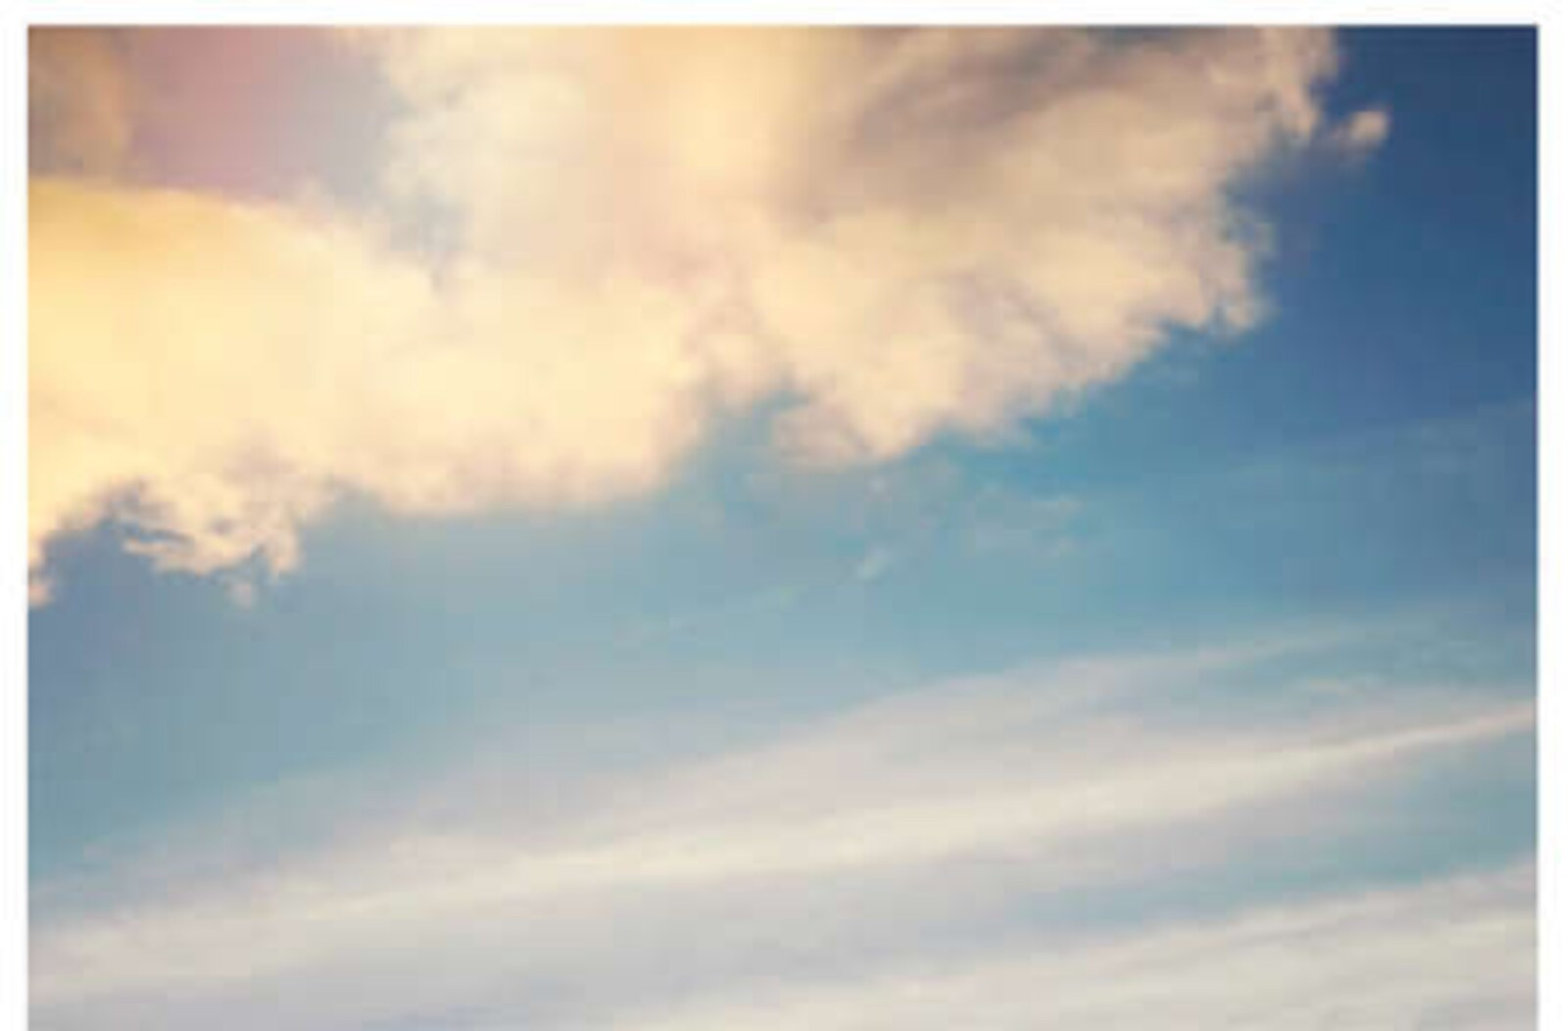
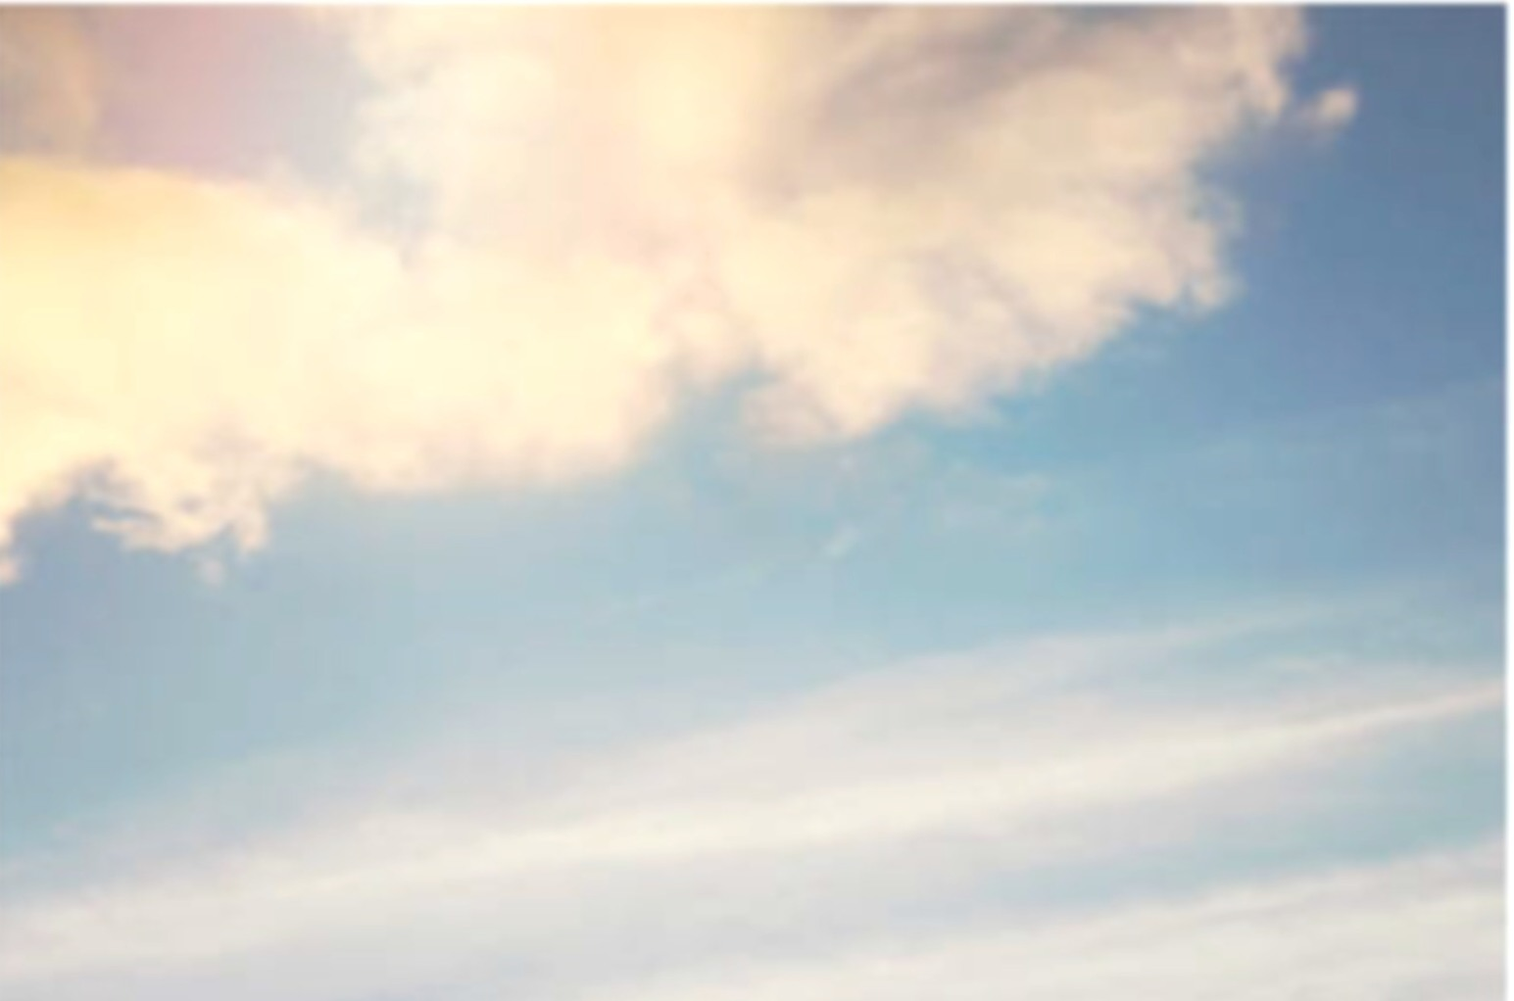
Add files via upload

diff --git a/index.html b/index.html
@@ -770,6 +770,43 @@ body:before{content:"";position:fixed;inset:0;background:rgba(255,255,255,.10);p
 @media(max-width:850px){.record-feed-inner{grid-template-columns:repeat(2,minmax(0,1fr))!important}.album-folder-grid{grid-template-columns:repeat(3,minmax(0,1fr))!important}.event-index-grid{gap:8px!important}.private-v18-dashboard{grid-template-columns:1.1fr .9fr!important}.bucket-drop-main{padding-left:56px!important}.bucket-drop-main:before{left:10px!important;width:34px!important;height:38px!important}}
 @media(max-width:650px){.record-feed-inner{grid-template-columns:repeat(2,minmax(0,1fr))!important;gap:5px!important}.album-folder-grid{grid-template-columns:repeat(2,minmax(0,1fr))!important}.event-index-grid{grid-template-columns:repeat(2,minmax(0,1fr))!important}.private-v18-dashboard{grid-template-columns:1fr 1fr!important;gap:5px!important}.eisenhower-matrix{gap:4px!important}.matrix-quadrant{padding:5px!important}.matrix-quadrant-head strong{font-size:10px!important}.matrix-quadrant-head:before{font-size:14px!important}.postit-two-wall{gap:6px!important;padding:4px!important}.postit-note{padding:9px!important}.bucket-board{padding:8px!important}.bucket-board:before{top:7px!important;font-size:10px!important}.bucket-head{margin-top:16px!important}}
 
+
+
+/* ===== AiderDear v20 DETAIL — visual polish only ===== */
+/* 1. Full-bleed, softer sky */
+html,body{background:#b7c4cb url('./aiderdear-sky.jpg') center center/cover no-repeat fixed!important;background-color:#b7c4cb!important}
+body:before{content:""!important;position:fixed!important;inset:0!important;background:rgba(255,255,255,.14)!important;pointer-events:none!important;z-index:-1!important}
+.app{width:100vw!important;height:100vh!important;max-width:none!important;background:transparent!important}
+
+/* 2. Bucket list — real cross-stitch cloth + scattered embroidered drops */
+.bucket-board{background-color:#f7f0df!important;background-image:
+ radial-gradient(circle,rgba(92,76,61,.20) 0 .65px,transparent .8px),
+ linear-gradient(90deg,rgba(111,91,70,.055) 1px,transparent 1px),
+ linear-gradient(rgba(111,91,70,.055) 1px,transparent 1px)!important;background-size:4px 4px,8px 8px,8px 8px!important;box-shadow:inset 0 0 30px rgba(94,72,43,.12),0 7px 20px rgba(62,48,30,.08)!important}
+.bucket-head{border-bottom:1px solid rgba(113,87,69,.25)!important}.bucket-form input{background:rgba(255,253,244,.72)!important;border:1px solid rgba(112,84,66,.42)!important}
+.bucket-drops{display:grid!important;grid-template-columns:repeat(3,minmax(0,1fr))!important;grid-auto-rows:122px!important;gap:4px 7px!important;padding:8px 2px 12px!important;overflow:auto!important;align-content:start!important}
+.bucket-drop{height:118px!important;min-height:118px!important;overflow:visible!important;transform:rotate(var(--bucket-tilt,0deg)) translate(var(--bucket-x,0),var(--bucket-y,0))!important;z-index:1}
+.bucket-drop:nth-child(6n+1){--bucket-tilt:-5deg;--bucket-x:7px;--bucket-y:3px}.bucket-drop:nth-child(6n+2){--bucket-tilt:4deg;--bucket-x:-3px;--bucket-y:15px}.bucket-drop:nth-child(6n+3){--bucket-tilt:-2deg;--bucket-x:-7px;--bucket-y:0}.bucket-drop:nth-child(6n+4){--bucket-tilt:3deg;--bucket-x:14px;--bucket-y:-3px}.bucket-drop:nth-child(6n+5){--bucket-tilt:-4deg;--bucket-x:0;--bucket-y:12px}.bucket-drop:nth-child(6n+6){--bucket-tilt:5deg;--bucket-x:-10px;--bucket-y:-2px}
+.bucket-drop-main{position:absolute!important;left:50%!important;top:3px!important;right:auto!important;bottom:auto!important;width:102px!important;height:110px!important;transform:translateX(-50%)!important;padding:36px 15px 15px!important;border:0!important;border-radius:0!important;clip-path:polygon(50% 0,61% 16%,76% 33%,89% 50%,96% 67%,90% 82%,78% 94%,61% 100%,43% 98%,27% 90%,14% 77%,9% 61%,14% 46%,24% 31%,38% 15%)!important;background-color:var(--drop,#efd0d6)!important;background-image:
+ linear-gradient(45deg,transparent 41%,color-mix(in srgb,var(--thread,#bd7e89) 82%,#5f4a42 18%) 42% 48%,transparent 49%),
+ linear-gradient(-45deg,transparent 41%,color-mix(in srgb,var(--thread,#bd7e89) 82%,#5f4a42 18%) 42% 48%,transparent 49%)!important;background-size:9px 9px!important;box-shadow:none!important;color:#5f4d45!important;text-align:center!important;justify-content:center!important;font-size:8px!important;line-height:1.4!important;filter:drop-shadow(0 3px 1px rgba(85,64,49,.16))!important}
+.bucket-drop-main:before{content:""!important;position:absolute!important;inset:5px!important;width:auto!important;height:auto!important;left:5px!important;top:5px!important;border:2px dotted color-mix(in srgb,var(--thread,#bd7e89) 82%,#6a5045 18%)!important;border-radius:50% 48% 52% 48%!important;background:none!important;transform:none!important;box-shadow:none!important;opacity:.9!important}
+.bucket-drop-main:after{content:"✕ ✕ ✕"!important;left:50%!important;top:19px!important;transform:translateX(-50%)!important;font-size:6px!important;letter-spacing:3px!important;color:color-mix(in srgb,var(--thread,#bd7e89) 76%,#5f4d45 24%)!important}
+.bucket-drop-tools{right:1px!important;top:auto!important;bottom:5px!important;transform:none!important;display:flex!important;gap:2px!important}.bucket-drop-tools button{width:20px!important;height:20px!important;background:rgba(255,253,245,.88)!important;border:1px solid rgba(98,72,58,.35)!important}
+.bucket-empty{font-size:20px!important;color:#b6a997!important}
+
+/* 3. Record year browser — slightly smaller Korean labels */
+.record-aside-title{font-size:20px!important;letter-spacing:-.025em!important}.record-stat span{font-size:6px!important}.record-month:first-child span{font-family:Arial,"Apple SD Gothic Neo",sans-serif!important;font-size:10px!important;font-weight:800!important}.record-month b{font-size:6px!important}
+
+/* 4. Travel — always contained in one frame, no page scroll */
+.travel-content{min-height:0!important;height:100%!important;overflow:hidden!important;padding-top:10px!important}.travel-review-grid{height:100%!important;min-height:0!important;overflow:hidden!important;display:grid!important;grid-template-columns:repeat(3,minmax(0,1fr))!important;grid-template-rows:repeat(2,minmax(0,1fr))!important;gap:10px!important}.travel-card{min-height:0!important;height:100%!important;overflow:hidden!important;padding:8px!important;display:grid!important;grid-template-rows:minmax(0,1fr) auto auto auto auto!important;align-content:stretch!important}.travel-photo{min-height:0!important;height:100%!important;aspect-ratio:auto!important}.travel-card h3{margin:5px 0 1px!important;font-size:9px!important}.travel-card .travel-place,.travel-one-line{font-size:6.5px!important;white-space:nowrap!important;overflow:hidden!important;text-overflow:ellipsis!important}.travel-card .travel-bottom{margin-top:4px!important;font-size:6px!important}
+
+/* 5. Checklist — notebook-paper Eisenhower matrix with both axes visible */
+.eisenhower-wrap{position:relative!important;background:#fffdf5!important;background-image:repeating-linear-gradient(to bottom,transparent 0,transparent 23px,rgba(91,129,153,.10) 24px)!important;border:1px solid rgba(93,80,65,.26)!important;border-radius:4px!important;padding:8px 8px 9px!important;box-shadow:0 5px 14px rgba(65,52,37,.06)!important;grid-template-rows:auto 18px minmax(0,1fr)!important}
+.eisenhower-wrap:before{content:"";position:absolute;top:0;bottom:0;left:34px;width:1px;background:rgba(205,119,119,.25);pointer-events:none}.matrix-add-form{position:relative;z-index:2;padding-left:31px!important}.matrix-axis-top{grid-template-columns:1fr 1fr!important;padding:0 0 0 34px!important;color:#526776!important;font-size:6.5px!important;font-weight:900!important;align-items:center!important}.matrix-body-wrap{min-height:0!important;display:grid!important;grid-template-columns:34px minmax(0,1fr)!important;gap:0!important}.matrix-axis-left{display:grid!important;grid-template-rows:1fr 1fr!important;min-height:0!important}.matrix-axis-left span{display:grid!important;place-items:center!important;writing-mode:vertical-rl!important;transform:rotate(180deg)!important;font-size:6.5px!important;font-weight:900!important;color:#526776!important;letter-spacing:.04em!important;padding:4px 0!important}.eisenhower-matrix{min-height:0!important;height:100%!important;gap:7px!important;background:transparent!important}.matrix-quadrant{background-image:repeating-linear-gradient(to bottom,transparent 0,transparent 22px,rgba(255,255,255,.22) 23px)!important;border:1px solid rgba(74,63,53,.14)!important;border-radius:5px!important;box-shadow:0 2px 7px rgba(56,43,31,.04)!important}.matrix-do{background-color:rgba(215,143,157,.72)!important}.matrix-schedule{background-color:rgba(158,212,232,.72)!important}.matrix-delegate{background-color:rgba(143,182,200,.72)!important}.matrix-delete{background-color:rgba(228,228,228,.78)!important}.matrix-quadrant-head span{display:block!important;font-size:5px!important;color:rgba(0,0,0,.55)!important}.matrix-task{background:rgba(255,254,248,.80)!important;border-bottom:1px dashed rgba(77,65,54,.18)!important;border-radius:2px!important}.matrix-task span{font-size:5.4px!important;color:#6c6259!important}
+
+@media(max-width:700px){.bucket-drops{grid-template-columns:repeat(2,minmax(0,1fr))!important;grid-auto-rows:88px!important}.bucket-drop{height:86px!important;min-height:86px!important}.bucket-drop-main{width:75px!important;height:82px!important;padding:27px 9px 8px!important;font-size:5.5px!important}.bucket-drop-main:after{top:13px!important;font-size:4px!important}.matrix-body-wrap{grid-template-columns:24px minmax(0,1fr)!important}.eisenhower-wrap:before{left:24px!important}.matrix-axis-top{padding-left:24px!important}.matrix-axis-left span{font-size:5px!important}.travel-review-grid{gap:5px!important}}
+
 </style>
 </head>
 <body>
@@ -2203,7 +2240,7 @@ body:before{content:"";position:fixed;inset:0;background:rgba(255,255,255,.10);p
     }
   }
   function renderTravelArchive(){
-    const grid=$('#travelReviewGrid');if(!grid)return;let rows=sortEventRows(eventRows().filter(r=>r.category==='travel'),travelSortMode);$('#travelSort').value=travelSortMode;grid.innerHTML='';const total=Math.max(6,rows.length);
+    const grid=$('#travelReviewGrid');if(!grid)return;let rows=sortEventRows(eventRows().filter(r=>r.category==='travel'),travelSortMode).slice(0,6);$('#travelSort').value=travelSortMode;grid.innerHTML='';const total=6;
     for(let i=0;i<total;i++){const r=rows[i];if(r){const card=document.createElement('button');card.type='button';card.className='travel-card';card.dataset.eventReviewId=r.id;card.innerHTML=`<div class="travel-photo"></div><h3>${escapeHtml(r.title)}</h3><div class="travel-place">${escapeHtml(r.place||'')}</div><p class="travel-one-line">${escapeHtml(r.oneLine||'—')}</p><div class="travel-bottom"><span>${escapeHtml((r.date||'').replaceAll('-','.'))}</span><span class="travel-stars">${starText(r.rating)}</span></div>`;const photo=card.querySelector('.travel-photo');if(r.media?.fileId)eventMediaSrc(r).then(src=>{if(src){const img=document.createElement('img');img.src=src;img.alt=r.title||'여행 사진';photo.appendChild(img)}});else photo.innerHTML='<div class="travel-photo-placeholder">Travel</div>';card.addEventListener('click',()=>openEventReviewView(r.id));grid.appendChild(card);continue}const card=document.createElement('button');card.type='button';card.className='travel-card placeholder';card.innerHTML=`<div class="travel-photo"><div class="travel-photo-placeholder">Travel</div></div><h3>Place / Trip</h3><div class="travel-place">여행 리뷰</div><div class="travel-bottom"><span>—</span><span class="travel-stars">☆☆☆☆☆</span></div><div class="travel-slot-no">${String(i+1).padStart(2,'0')}</div>`;card.addEventListener('click',()=>openEventReviewEditor(null,'travel'));grid.appendChild(card)}
   }
   async function openEventReviewView(id){const r=eventRows().find(x=>x.id===id);if(!r)return;eventViewId=id;const body=$('#eventReviewViewBody');body.innerHTML=`<div class="event-view-media"></div><div class="event-view-copy"><div class="category">${eventCategoryLabel(r.category)}</div><h3>${escapeHtml(r.title)}</h3><div class="stars">${starText(r.rating)}</div>${r.place?`<div class="meta">${escapeHtml(r.place)}</div>`:''}<div class="meta">${escapeHtml((r.date||'').replaceAll('-','.'))}</div>${r.oneLine?`<blockquote class="event-view-one-line">${escapeHtml(r.oneLine)}</blockquote>`:''}<div class="event-view-review">${escapeHtml(r.review||'')}</div></div>`;const media=body.querySelector('.event-view-media');if(r.media?.fileId){const src=await eventMediaSrc(r);if(src){const img=document.createElement('img');img.src=src;img.alt=r.title||'리뷰 이미지';media.appendChild(img)}}else media.textContent=eventCategoryEmoji(r.category);$('#eventReviewViewTitle').textContent=r.category==='travel'?'Travel Review':'Review';$('#eventReviewEditBtn').hidden=!canEditEventReview(r);openModal('eventReviewViewModal')}
@@ -2333,8 +2370,8 @@ body:before{content:"";position:fixed;inset:0;background:rgba(255,255,255,.10);p
   function renderRoutineTracker(r,i,writable){if(!r)return `<div class="routine-tracker-empty"><span>ROUTINE</span><b>아직 만든 루틴이 없습니다.</b></div>`;const color=routineColor(r,i),days=routineTrackerWindow(r),goal=Number(r.goalDays)||30,stamps=(r.doneDates||[]).length,todayLevel=String(r.dailyLevels?.[dateKeyOffset(0)]||'').toUpperCase(),complete=stamps>=goal,partner=sharedPartner(),brag=complete?(r.braggedAt?'<span class="routine-brag-done">✓ 자랑 편지 보냄</span>':`<button class="routine-tracker-brag" type="button" data-routine-brag="${escapeHtml(r.id)}" ${partner?'':'disabled'}>${partner?`${escapeHtml(partner.name)}에게 자랑하기`:'공유 상대 설정 후 자랑하기'}</button>`):'';const circles=days.map(d=>`<button type="button" class="routine-track-day ${d.level?`level-${d.level}`:''} ${d.today?'today':''}" title="${d.key}${d.level?' · '+d.level:''}" disabled><small>${d.idx+1}일</small><b>${d.today&&!d.level?'TODAY':(d.level||'')}</b></button>`).join('');return `<article class="routine-tracker" style="--routine:${color}"><div class="routine-tracker-head"><div><span class="routine-tracker-icons">${escapeHtml(r.icon||'✨')}　●　○　●</span><small>${routineCreatedDate(r)} ~ ${goal} DAYS</small><h3>${escapeHtml(r.text||'Routine')}</h3></div><div class="routine-tracker-daycount"><span>DAY</span><strong>${stamps}</strong></div></div><div class="routine-tracker-rules"><p><b>MINI</b>${escapeHtml(r.miniText||'작게라도 실천하기')}</p><p><b>MORE</b>${escapeHtml(r.moreText||'조금 더 실천하기')}</p><p><b>MAX</b>${escapeHtml(r.maxText||'충분히 실천하기')}</p></div><div class="routine-tracker-levels"><span>TODAY</span><div><button type="button" data-routine-level="MINI" data-id="${escapeHtml(r.id)}" class="${todayLevel==='MINI'?'active':''}" ${writable?'':'disabled'}>MINI</button><button type="button" data-routine-level="MORE" data-id="${escapeHtml(r.id)}" class="${todayLevel==='MORE'?'active':''}" ${writable?'':'disabled'}>MORE</button><button type="button" data-routine-level="MAX" data-id="${escapeHtml(r.id)}" class="${todayLevel==='MAX'?'active':''}" ${writable?'':'disabled'}>MAX</button><button type="button" data-routine-level="SKIP" data-id="${escapeHtml(r.id)}" class="${todayLevel==='SKIP'?'active':''}" ${writable?'':'disabled'}>SKIP</button></div></div><div class="routine-track-grid">${circles}</div><footer><span>최초 시작 ${routineCreatedDate(r).slice(2).replaceAll('-','.')}</span><span>완성 회차 ${Math.floor(stamps/goal)}</span><strong>총 실천 ${stamps}</strong></footer><div class="routine-tracker-actions">${brag}${writable?`<button type="button" data-private-delete="routine" data-id="${escapeHtml(r.id)}">삭제</button>`:''}</div></article>`}
   function renderRoutinePanel(data,writable,note){const routines=data.routines||[];if(routines.length&&!routines.some(r=>r.id===selectedRoutineId))selectedRoutineId=routines[0].id;if(!routines.length)selectedRoutineId='';const selected=routines.find(r=>r.id===selectedRoutineId)||routines[0]||null,selectedIndex=Math.max(0,routines.findIndex(r=>r.id===selected?.id));const tabs=`<div class="routine-top-tabs"><button type="button" data-routine-tab="routines" class="${routinePanelMode==='routines'?'active':''}">ROUTINES</button><button type="button" data-routine-tab="create" class="${routinePanelMode==='create'?'active':''}">+ CREATE</button></div>`;if(routinePanelMode==='create')return note+`<div class="routine-v18-shell">${tabs}${renderRoutineCreator(writable)}</div>`;const brief=routines.length?routines.map((r,i)=>routineSelectorCard(r,i,r.id===selected?.id)).join(''):'<div class="routine-brief-empty">+ CREATE에서 첫 루틴을 만들어보세요.</div>';const goals=(data.routineGoals||['','','']).slice(0,3);while(goals.length<3)goals.push('');const goalForm=writable?`<form id="privateRoutineGoalsForm" class="routine-big-goals"><div class="routine-goals-title"><b>BIG GOALS</b><button type="submit">SAVE</button></div>${goals.map((g,i)=>`<label><span>0${i+1}</span><input id="routineBigGoal${i}" maxlength="120" value="${escapeHtml(g)}" placeholder="루틴을 통해 얻고 싶은 큰 목표"></label>`).join('')}</form>`:'';return note+`<div class="routine-v18-shell">${tabs}<div class="routine-v18-main"><div class="routine-left-stack"><section class="routine-brief-section"><div class="routine-section-head"><b>MY ROUTINES</b><span>${routines.length}</span></div><div class="routine-compact-list">${brief}</div></section>${goalForm}</div><section class="routine-tracker-section">${renderRoutineTracker(selected,selectedIndex,writable)}</section></div></div>`}
   function checklistQuadrant(c){const important=String(c.priority||'보통')==='높음',urgent=!!c.date&&c.date<=dateKeyOffset(1);return important?(urgent?'do':'schedule'):(urgent?'delegate':'delete')}
-  function checklistTaskCard(c,writable){const due=c.date?c.date.slice(5).replace('-','.'):'—';return `<article class="matrix-task ${c.done?'done':''}"><input type="checkbox" data-check-toggle="${escapeHtml(c.id)}" ${c.done?'checked':''} ${writable?'':'disabled'}><div><b>${escapeHtml(c.text||'')}</b><span>마감 ${escapeHtml(due)} · ${escapeHtml(c.priority||'보통')}</span></div>${writable?`<button type="button" data-private-delete="checklist" data-id="${escapeHtml(c.id)}">×</button>`:''}</article>`}
-  function renderChecklistPanel(data,writable,note){const todayKey=dateKeyOffset(0),list=(data.checklists||[]).slice().sort((a,b)=>(Number(a.done)-Number(b.done))||(a.date||'9999').localeCompare(b.date||'9999'));const form=writable?`<form class="matrix-add-form" id="privateChecklistForm"><input type="text" id="privateChecklistText" maxlength="120" placeholder="할 일" required><input type="date" id="privateChecklistDate" value="${todayKey}"><select id="privateChecklistPriority"><option value="높음">높음</option><option value="보통" selected>보통</option><option value="낮음">낮음</option></select><button class="private-add" type="submit">+ ADD</button></form>`:'';const q={do:[],schedule:[],delegate:[],delete:[]};list.forEach(c=>q[checklistQuadrant(c)].push(c));const cell=(key,title,sub)=>`<section class="matrix-quadrant matrix-${key}"><div class="matrix-quadrant-head"><strong>${title}</strong><span>${sub}</span></div><div class="matrix-quadrant-body">${q[key].map(c=>checklistTaskCard(c,writable)).join('')||'<i>—</i>'}</div></section>`;return note+`<div class="eisenhower-wrap">${form}<div class="matrix-axis-top"><span>URGENT</span><span>NOT URGENT</span></div><div class="eisenhower-matrix">${cell('do','DO','IMPORTANT')}${cell('schedule','DECIDE','IMPORTANT')}${cell('delegate','DELEGATE','NOT IMPORTANT')}${cell('delete','DELETE','NOT IMPORTANT')}</div></div>`}
+  function checklistTaskCard(c,writable){const due=c.date?c.date.slice(5).replace('-','.'):'—',important=String(c.priority||'보통')==='높음',urgent=!!c.date&&c.date<=dateKeyOffset(1);return `<article class="matrix-task ${c.done?'done':''}"><input type="checkbox" data-check-toggle="${escapeHtml(c.id)}" ${c.done?'checked':''} ${writable?'':'disabled'}><div><b>${escapeHtml(c.text||'')}</b><span>마감 ${escapeHtml(due)} · ${urgent?'긴급':'여유'} · ${important?'중요':'일반'}</span></div>${writable?`<button type="button" data-private-delete="checklist" data-id="${escapeHtml(c.id)}">×</button>`:''}</article>`}
+  function renderChecklistPanel(data,writable,note){const todayKey=dateKeyOffset(0),list=(data.checklists||[]).slice().sort((a,b)=>(Number(a.done)-Number(b.done))||(a.date||'9999').localeCompare(b.date||'9999'));const form=writable?`<form class="matrix-add-form" id="privateChecklistForm"><input type="text" id="privateChecklistText" maxlength="120" placeholder="할 일" required><input type="date" id="privateChecklistDate" value="${todayKey}"><select id="privateChecklistPriority"><option value="높음">높음</option><option value="보통" selected>보통</option><option value="낮음">낮음</option></select><button class="private-add" type="submit">+ ADD</button></form>`:'';const q={do:[],schedule:[],delegate:[],delete:[]};list.forEach(c=>q[checklistQuadrant(c)].push(c));const cell=(key,title,sub)=>`<section class="matrix-quadrant matrix-${key}"><div class="matrix-quadrant-head"><strong>${title}</strong><span>${sub}</span></div><div class="matrix-quadrant-body">${q[key].map(c=>checklistTaskCard(c,writable)).join('')||'<i>—</i>'}</div></section>`;return note+`<div class="eisenhower-wrap">${form}<div class="matrix-axis-top"><span>긴급</span><span>긴급하지 않음</span></div><div class="matrix-body-wrap"><div class="matrix-axis-left"><span>중요</span><span>중요하지 않음</span></div><div class="eisenhower-matrix">${cell('do','DO','IMPORTANT')}${cell('schedule','DECIDE','IMPORTANT')}${cell('delegate','DELEGATE','NOT IMPORTANT')}${cell('delete','DELETE','NOT IMPORTANT')}</div></div></div>`}
   function renderMemoPostits(data,writable){const memos=(data.memos||[]).slice(0,2);return `<div class="postit-two-wall">${[0,1].map(i=>{const m=memos[i]||null;if(editingMemoSlot===i&&writable)return `<form id="privateMemoSlotForm" class="postit-note postit-edit note-${i+1}"><input type="hidden" id="privateMemoSlot" value="${i}"><textarea id="privateMemoSlotText" maxlength="1200" autofocus placeholder="메모를 적어주세요.">${escapeHtml(m?.text||'')}</textarea><div><button type="button" data-memo-cancel>취소</button><button type="submit">저장</button></div></form>`;return `<article class="postit-note note-${i+1} ${m?'filled':'empty'}" data-memo-slot="${i}"><span class="postit-tape"></span><button type="button" class="postit-click" data-memo-slot="${i}"><small>MEMO 0${i+1}</small><p>${m?escapeHtml(m.text||''):'CLICK TO WRITE'}</p></button>${m&&writable?`<button type="button" class="postit-remove" data-private-delete="memo" data-id="${escapeHtml(m.id)}">×</button>`:''}</article>`}).join('')}</div>`}
   function renderPrivateDashboard(data,writable){const checklistHtml=renderChecklistPanel(data,writable,'');return `<div class="private-dashboard private-v18-dashboard"><section class="private-column checklist-column"><div class="private-column-head"><b>CHECKLIST</b></div>${checklistHtml}</section><section class="private-column memo-column"><div class="private-column-head"><b>MEMO</b></div>${renderMemoPostits(data,writable)}</section></div>`}
   function renderPrivate(){const panel=$('#privatePanel'),routine=$('#privateRoutinePanel');if(!panel||!routine)return;if(!currentUserEmail){panel.innerHTML='<div class="private-empty">Google 로그인 후 PRIVATE를 사용할 수 있습니다.</div>';routine.innerHTML='';return}privateOwner=currentUserEmail;const data=privateData[currentUserEmail]||blankPrivateData(currentUserEmail),writable=privateCanWrite();panel.innerHTML=renderPrivateDashboard(data,writable);routine.innerHTML=renderRoutinePanel(data,writable,'')}

diff --git a/sw.js b/sw.js
@@ -1,4 +1,4 @@
-const CACHE='aiderdear-shell-v19-rebuild';
+const CACHE='aiderdear-shell-v20-detail';
 const ASSETS=['./','./index.html','./manifest.webmanifest','./aiderdear-icon.svg','./aiderdear-sky.jpg'];
 self.addEventListener('install',event=>{self.skipWaiting();event.waitUntil(caches.open(CACHE).then(cache=>cache.addAll(ASSETS)).catch(()=>{}))});
 self.addEventListener('activate',event=>event.waitUntil(Promise.all([self.clients.claim(),caches.keys().then(keys=>Promise.all(keys.filter(k=>k!==CACHE).map(k=>caches.delete(k))))])));
